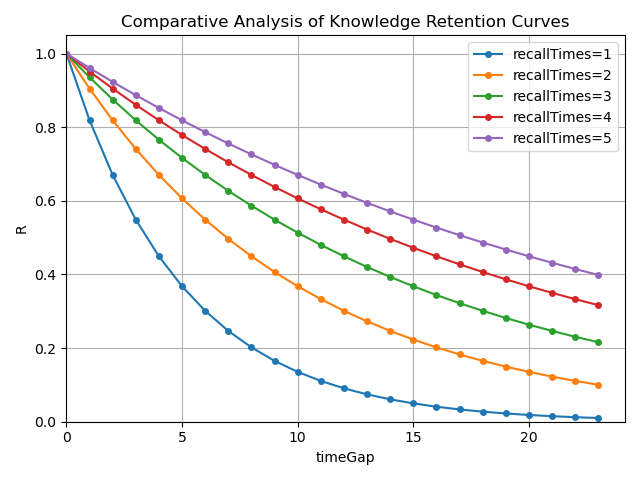
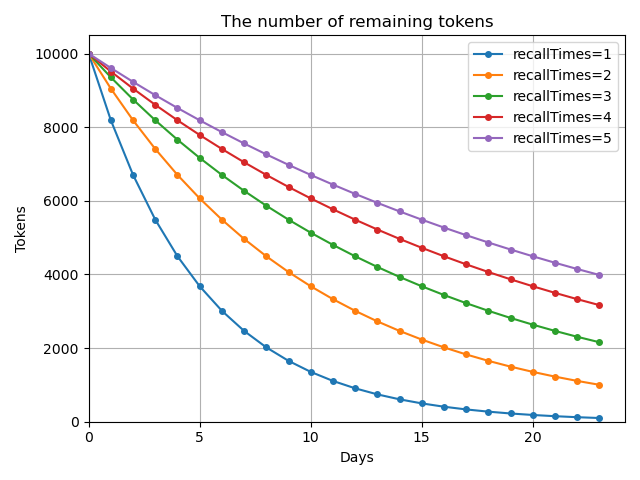
Modify drawing function

diff --git a/eval/curve.py b/eval/curve.py
@@ -37,19 +37,19 @@ if __name__ == '__main__':
     score_1 = [forgetting_curve(i, 1, drawMode=1) for i in range(0, 24)]
     label = 'recallTimes=1'
     tools.plot_data(score_1, label=label)
-    # Figure_3
-    score_1 = [forgetting_curve(i, 1, drawMode=1) for i in range(0, 24)]
-    score_2 = [forgetting_curve(i, 2, drawMode=1) for i in range(0, 24)]
-    score_3 = [forgetting_curve(i, 3, drawMode=1) for i in range(0, 24)]
-    score_4 = [forgetting_curve(i, 4, drawMode=1) for i in range(0, 24)]
-    score_5 = [forgetting_curve(i, 5, drawMode=1) for i in range(0, 24)]
+    # Figure_8
+    score_1 = [forgetting_curve(i, 1, drawMode=1) * 10000 for i in range(0, 24)]
+    score_2 = [forgetting_curve(i, 2, drawMode=1) * 10000 for i in range(0, 24)]
+    score_3 = [forgetting_curve(i, 3, drawMode=1) * 10000 for i in range(0, 24)]
+    score_4 = [forgetting_curve(i, 4, drawMode=1) * 10000 for i in range(0, 24)]
+    score_5 = [forgetting_curve(i, 5, drawMode=1) * 10000 for i in range(0, 24)]
     labels = ['recallTimes=1', 'recallTimes=2', 'recallTimes=3', 'recallTimes=4', 'recallTimes=5']
     tools.plot_multiple_data(score_1, score_2, score_3, score_4, score_5, labels=labels)
-    # Figure_4
-    score_1 = [source_ab_curve(i, 1, drawMode=1) for i in range(0, 24)]
-    score_2 = [source_ab_curve(i, 2, drawMode=1) for i in range(0, 24)]
-    score_3 = [source_ab_curve(i, 3, drawMode=1) for i in range(0, 24)]
-    score_4 = [source_ab_curve(i, 4, drawMode=1) for i in range(0, 24)]
-    score_5 = [source_ab_curve(i, 5, drawMode=1) for i in range(0, 24)]
+    # Figure_9
+    score_1 = [source_ab_curve(i, 1, drawMode=1) * 10000 for i in range(0, 24)]
+    score_2 = [source_ab_curve(i, 2, drawMode=1) * 10000 for i in range(0, 24)]
+    score_3 = [source_ab_curve(i, 3, drawMode=1) * 10000 for i in range(0, 24)]
+    score_4 = [source_ab_curve(i, 4, drawMode=1) * 10000 for i in range(0, 24)]
+    score_5 = [source_ab_curve(i, 5, drawMode=1) * 10000 for i in range(0, 24)]
     labels = ['recallTimes=1', 'recallTimes=2', 'recallTimes=3', 'recallTimes=4', 'recallTimes=5']
     tools.plot_multiple_data(score_1, score_2, score_3, score_4, score_5, labels=labels)

diff --git a/core/forget/curve.py b/core/forget/curve.py
@@ -48,9 +48,15 @@ def __final_score(score: float, config=config_curve):
 
 
 if __name__ == '__main__':
+    s = []
+    f = []
     for j in range(1, 6):
+        s.append([source_ab_curve(i, j, config_curve, drawMode=1) for i in range(24)])
         print([source_ab_curve(i, j, config_curve, drawMode=1) for i in range(24)])
+
     print('############')
     for j in range(1, 6):
+        f.append([forgetting_curve(i, j, config_curve, drawMode=1) for i in range(24)])
         print([forgetting_curve(i, j, config_curve, drawMode=1) for i in range(24)])
     # print(forgetting_curve(6, 1))
+

diff --git a/utils/tools.py b/utils/tools.py
@@ -50,9 +50,9 @@ def plot_multiple_data(*args, labels=None):
     for index, values in enumerate(args):
         x = range(0, len(values))
         plt.plot(x, values, marker='o', label=labels[index], markersize=4)
-    plt.title("Comparative Analysis of Knowledge Retention Curves")
-    plt.xlabel("timeGap")
-    plt.ylabel("R")
+    plt.title("The number of remaining tokens")
+    plt.xlabel("Days")
+    plt.ylabel("Tokens")
     plt.grid(True)
     plt.legend()
     plt.xlim(left=0)
